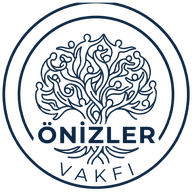
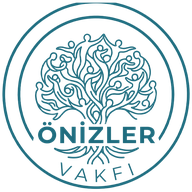
Adopt Deep Teal + Gold palette from official brand identity
Extracted color specs from the Baykuşevi brand identity mockups:
- Deep Teal #1E6B7D (primary — office wall, mug, folder, polo, rosette, pin)
- Antique Gold #B08D57 (accent — wordmark asset, gala signage)
- Cream #FAF8F5 (neutral)
- Deep Navy #0C2744 (secondary — cap, lanyard, banner)

- globals.css: --color-navy family repointed to teal, --color-gold family to
  antique gold + warm cream
- Hero gradient (home + PageHero) recomposed in teal
- Logo re-tinted from navy to teal; regenerated all size variants,
  logo-mark-white, apple-touch-icon and favicon
- New logo-mark-gold.png for accent placements
- OG social image rebuilt on teal ground

diff --git a/src/app/globals.css b/src/app/globals.css
@@ -1,14 +1,14 @@
 @import "tailwindcss";
 
 @theme inline {
-  --color-navy: #0C1220;
-  --color-navy-light: #162033;
-  --color-navy-mid: #1e2d4a;
-  --color-gold: #0C2744;
-  --color-gold-light: #1A3A5C;
-  --color-gold-soft: #E8EDF4;
-  --color-gold-warm: #FAF8F5;
-  --color-gold-warm-light: #FFFFFF;
+  --color-navy: #1E6B7D;
+  --color-navy-light: #2C7E92;
+  --color-navy-mid: #235968;
+  --color-gold: #B08D57;
+  --color-gold-light: #C9A66E;
+  --color-gold-soft: #F5EFE3;
+  --color-gold-warm: #E8D9B8;
+  --color-gold-warm-light: #F5EFE3;
   --color-green: #1B6B40;
   --color-sky: #2563EB;
   --color-terra: #78350F;

diff --git a/src/app/[locale]/page.tsx b/src/app/[locale]/page.tsx
@@ -35,7 +35,7 @@ export default function HomePage() {
     <>
       {/* Hero — Full screen */}
       <section className="relative min-h-screen flex items-center justify-center overflow-hidden bg-navy">
-        <div className="absolute inset-0 bg-gradient-to-br from-[#1a2744] via-[#243558] to-[#1e2d4a] animate-gradient" />
+        <div className="absolute inset-0 bg-gradient-to-br from-[#1E6B7D] via-[#2C7E92] to-[#164D5B] animate-gradient" />
 
         <div className="absolute inset-0 opacity-[0.07]">
           <svg className="w-full h-full" xmlns="http://www.w3.org/2000/svg">

diff --git a/src/components/PageHero.tsx b/src/components/PageHero.tsx
@@ -2,7 +2,7 @@ import Image from "next/image";
 
 export default function PageHero({ title, subtitle }: { title: string; subtitle?: string }) {
   return (
-    <section className="relative bg-gradient-to-br from-[#1a2744] via-[#243558] to-[#1e2d4a] overflow-hidden pt-32">
+    <section className="relative bg-gradient-to-br from-[#1E6B7D] via-[#2C7E92] to-[#164D5B] overflow-hidden pt-32">
       <div className="absolute inset-0 opacity-[0.06]">
         <svg className="w-full h-full" xmlns="http://www.w3.org/2000/svg">
           <defs>
